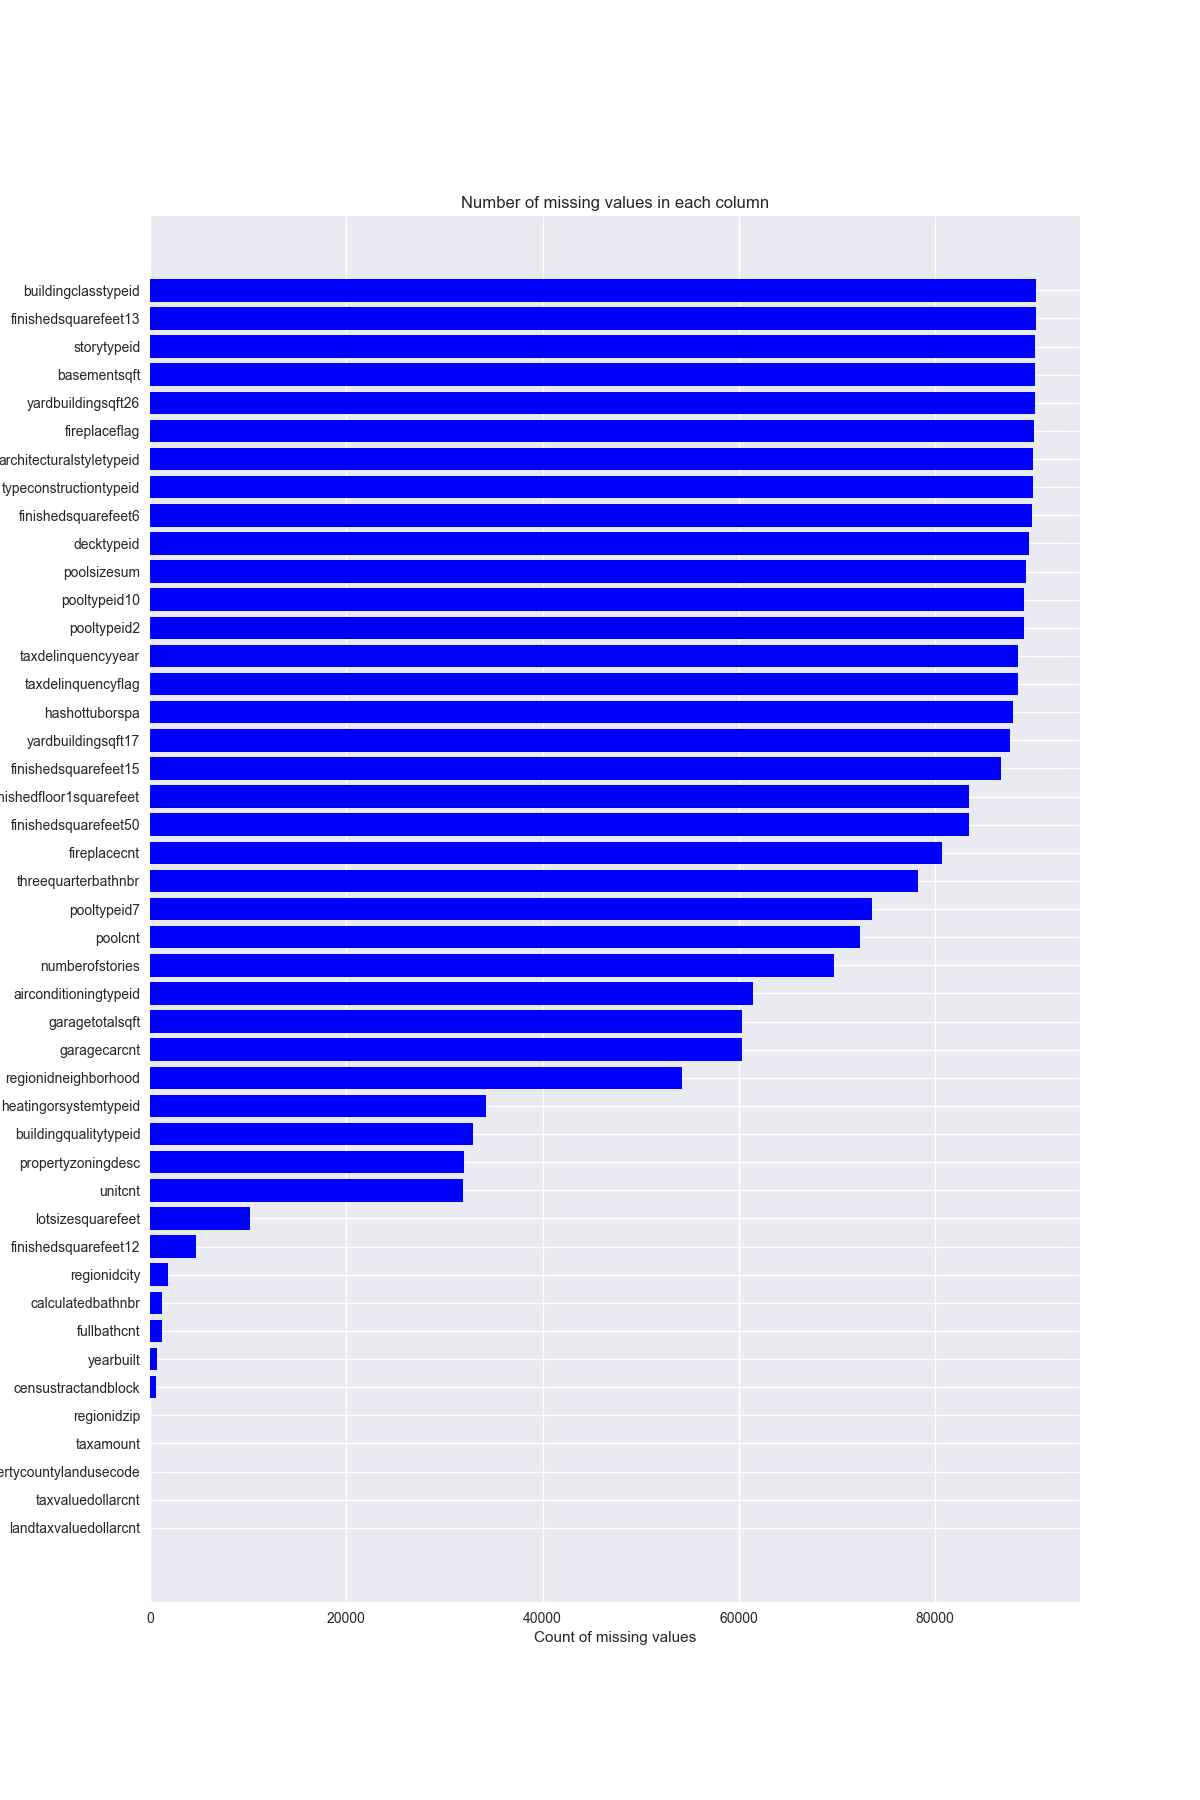
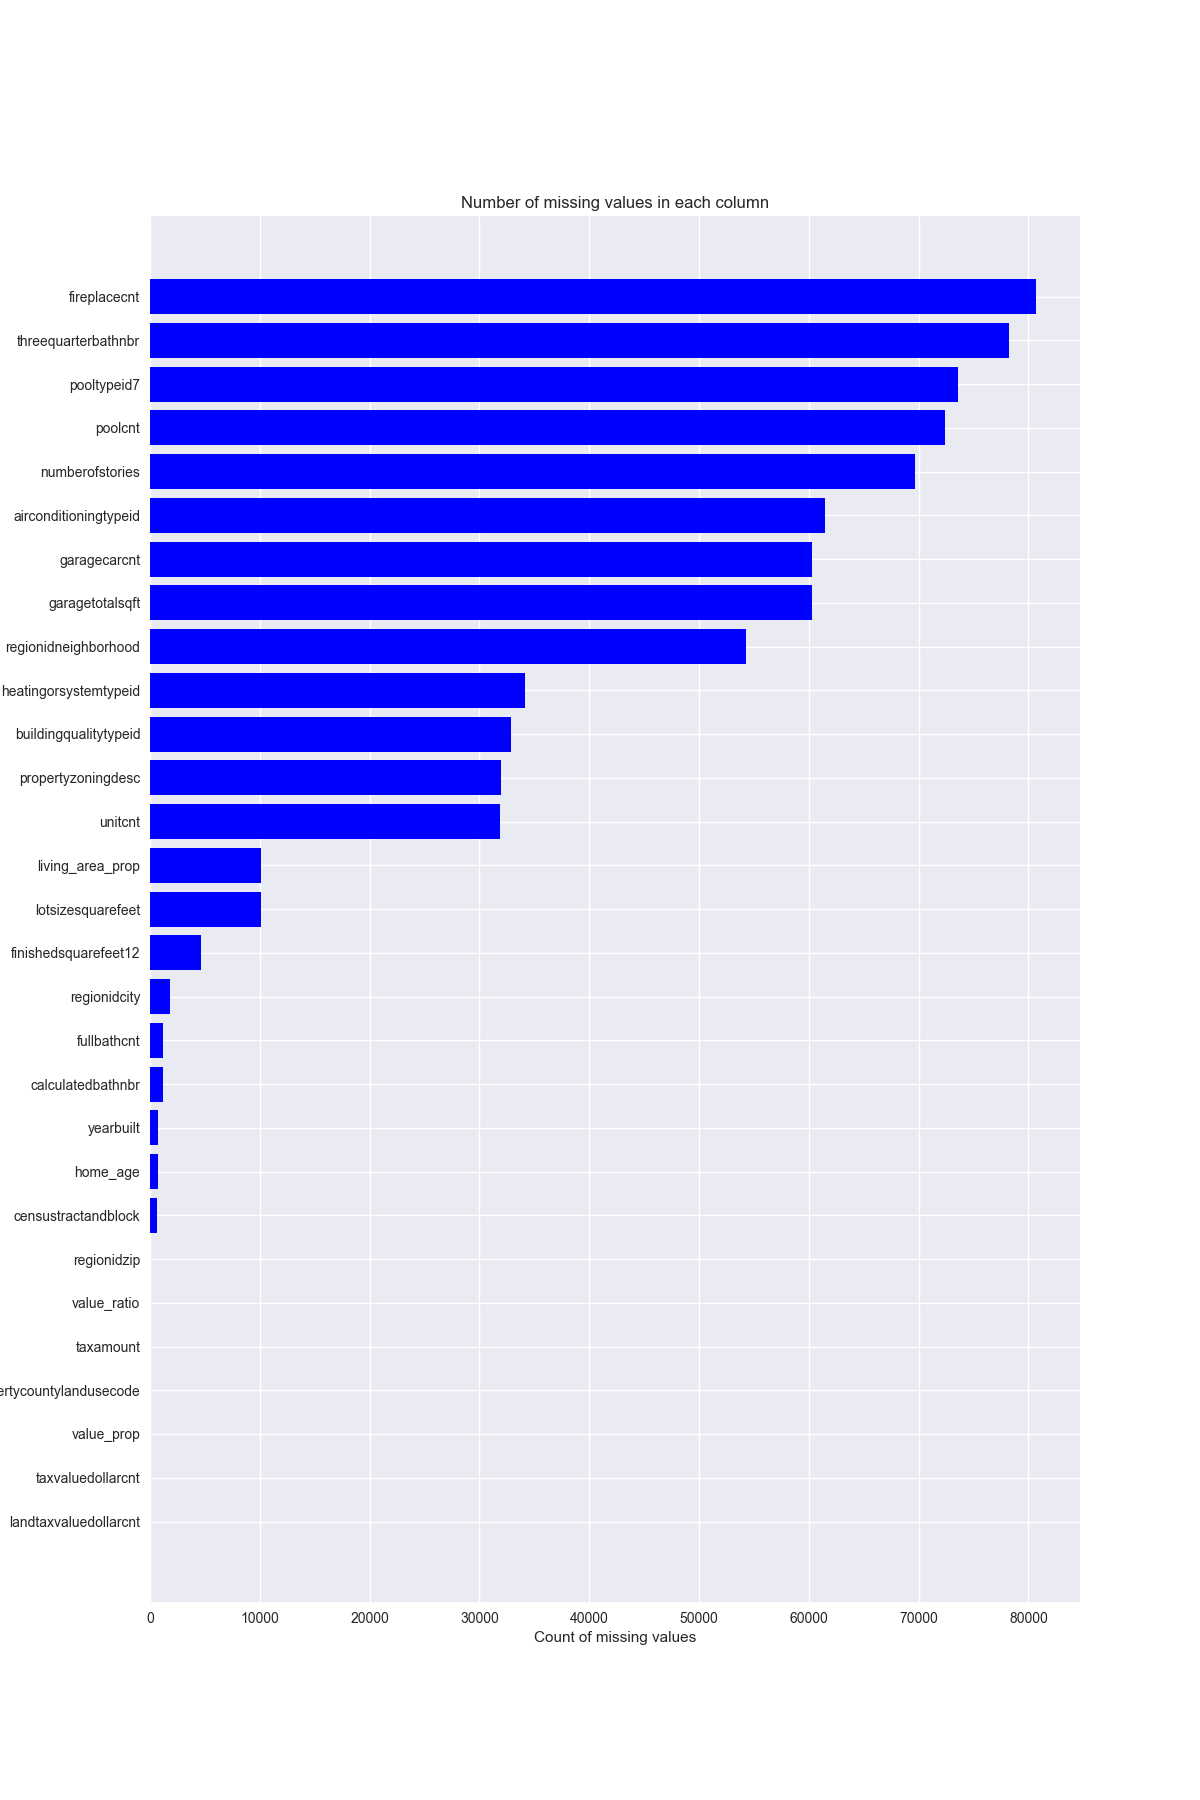
data_imputations added

Changed region(s): [[0.0, 0.1556, 0.8633, 0.8711], [0.5858, 0.8711, 0.6167, 0.9022], [0.2775, 0.8711, 0.3083, 0.9022]]

diff --git a/feature_engineering.py b/feature_engineering.py
@@ -1,13 +1,26 @@
-from data_exploration import Display_missing_percentages,random_forest_importance
+from data_exploration import Display_missing_percentages, random_forest_importance
 from sklearn.preprocessing import LabelEncoder
 import numpy as np
 import matplotlib as plt
-
+from data_imputation import *
 from sklearn.ensemble import ExtraTreesClassifier
 
 DEBUG = 1
-def data_preprocessing(df_train,df_test):
 
+
+def feature_engineering(df_train, df_test):
+
+    df_train, df_test = data_modification(df_train, df_test)
+    df_train, df_test = missing_value_removal(df_train, df_test)
+    df_train, df_test = new_features(df_train, df_test)
+    df_train, df_test = missing_value_removal(df_train, df_test)
+    # df_train, df_test = data_imputation(df_train,df_test)
+    df_train, df_test = label_encoding(df_train, df_test)
+
+    return df_train, df_test
+
+
+def data_modification(df_train, df_test):
     print('Memory usage reduction...')
     df_train[['latitude', 'longitude']] /= 1e6
     df_test[['latitude', 'longitude']] /= 1e6
@@ -15,10 +28,14 @@ def data_preprocessing(df_train,df_test):
     df_train['censustractandblock'] /= 1e12
     df_test['censustractandblock'] /= 1e12
 
+    return df_train,df_test
+
+
+def missing_value_removal(df_train, df_test):
     # counting number of missing values
     cnt = Display_missing_percentages(df_train)
 
-    if DEBUG :
+    if DEBUG:
         print 'Before Dropping Values'
         print df_train.shape
         print df_test.shape
@@ -26,32 +43,26 @@ def data_preprocessing(df_train,df_test):
     drop_list = []
     for c in df_train.columns:
         if cnt[c] > 90:
-            if DEBUG :
+            if DEBUG:
                 print c
                 c123 = 0
             drop_list.append(c)
 
-    df_train_new = df_train.drop(drop_list,axis=1)
-    #drop_list.extend(('201610', '201611','201612', '201710', '201711', '201712'))
-    df_test_new = df_test.drop(drop_list,axis=1)
-
+    df_train_new = df_train.drop(drop_list, axis=1)
+    df_test_new = df_test.drop(drop_list, axis=1)
 
     df_train = df_train_new
     df_test = df_test_new
 
-    if DEBUG :
+    if DEBUG:
         print 'After Dropping Values'
         print df_train.shape
         print df_test.shape
 
-    # df_train,df_test=label_encoding(df_train,df_test)
-    # random_forest_importance(df_train)
-
-    return df_train,df_test
+    return df_train, df_test
 
 
-def label_encoding(df_train,df_test):
-
+def label_encoding(df_train, df_test):
     # Label Encoding For Machine Learning &amp; Filling Missing Values
     #
     # We are now label encoding our datasets. All of the machine learning algorithms
@@ -62,38 +73,30 @@ def label_encoding(df_train,df_test):
     # This is to ensure that label encoder function does not experience any problems while
     # carrying out its operation #
 
-    ignore_labels = ['parcelid','transactiondata','logerror']
     lbl = LabelEncoder()
     for c in df_train.columns:
-
-        if (c != 'parcelid' and c!= 'transactiondate' and c !='logerror'):
-            if df_train[c].dtype == 'object':
-                df_train[c] = df_train[c].fillna(0)
-            else:
-                mean_c = df_train[c].mean()
-                df_train[c]=df_train[c].fillna(mean_c)
-
         if df_train[c].dtype == 'object':
             lbl.fit(list(df_train[c].values))
             df_train[c] = lbl.transform(list(df_train[c].values))
 
     for c in df_test.columns:
-        df_test[c]=df_test[c].fillna(0)
         if df_test[c].dtype == 'object':
             lbl.fit(list(df_test[c].values))
             df_test[c] = lbl.transform(list(df_test[c].values))
 
-    return df_train,df_test
+    return df_train, df_test
 
-def new_features(df_train,df_test):
-     # living area proportions
+
+def new_features(df_train, df_test):
+    # living area proportions
     df_train['living_area_prop'] = df_train['calculatedfinishedsquarefeet'] / df_train['lotsizesquarefeet']
     df_test['living_area_prop'] = df_test['calculatedfinishedsquarefeet'] / df_test['lotsizesquarefeet']
     # tax value ratio
     df_train['value_ratio'] = df_train['taxvaluedollarcnt'] / df_train['taxamount']
     df_test['value_ratio'] = df_test['taxvaluedollarcnt'] / df_test['taxamount']
     # tax value proportions
-    df_train['value_prop'] = df_train['structuretaxvaluedollarcnt'] / df_train['landtaxvaluedollarcnt']  # built structure value / value of land
+    df_train['value_prop'] = df_train['structuretaxvaluedollarcnt'] / df_train[
+        'landtaxvaluedollarcnt']  # built structure value / value of land
     df_test['value_prop'] = df_test['structuretaxvaluedollarcnt'] / df_test['landtaxvaluedollarcnt']
 
     df_train['home_age'] = 2016 - df_train['yearbuilt'];
@@ -101,8 +104,8 @@ def new_features(df_train,df_test):
 
     return df_train, df_test
 
-def feature_selection(df_train,df_test):
 
+def feature_selection(df_train, df_test):
     ### Rearranging the DataSets ###
 
     # We will now drop the features that serve no useful purpose.
@@ -112,18 +115,21 @@ def feature_selection(df_train,df_test):
     # Make sure to include the same features in the test set as were
     # included in the training set #
 
-    #dropping properties which are not important or which are similar
+    # dropping properties which are not important or which are similar
 
 
-    x_train = df_train.drop(['parcelid', 'logerror', 'transactiondate', 'bathroomcnt', 'fips', 'pooltypeid7','calculatedbathnbr',
-                            'regionidcounty','threequarterbathnbr', 'assessmentyear','censustractandblock','yearbuilt','regionidneighborhood', ], axis=1)
+    x_train = df_train.drop(
+        ['parcelid', 'logerror', 'transactiondate', 'bathroomcnt', 'fips', 'pooltypeid7', 'calculatedbathnbr',
+         'regionidcounty', 'threequarterbathnbr', 'assessmentyear', 'censustractandblock', 'yearbuilt',
+         'regionidneighborhood', ], axis=1)
 
-    x_test = df_test.drop(['parcelid', 'bathroomcnt', 'fips', 'pooltypeid7','calculatedbathnbr',
-                            'regionidcounty','threequarterbathnbr', 'assessmentyear','censustractandblock', 'yearbuilt','regionidneighborhood','201610', '201611',
-                           '201612', '201710', '201711', '201712'], axis = 1)
+    x_test = df_test.drop(['parcelid', 'bathroomcnt', 'fips', 'pooltypeid7', 'calculatedbathnbr',
+                           'regionidcounty', 'threequarterbathnbr', 'assessmentyear', 'censustractandblock',
+                           'yearbuilt', 'regionidneighborhood', '201610', '201611',
+                           '201612', '201710', '201711', '201712'], axis=1)
 
     x_train = x_train.values
     y_train = df_train['logerror'].values
 
     y_test = 0
-    return x_train,y_train,x_test,y_test
+    return x_train, y_train, x_test, y_test

diff --git a/data_exploration.py b/data_exploration.py
@@ -1,6 +1,8 @@
 import numpy as np
 import matplotlib.pyplot as plt
 import seaborn as sns
+from sklearn.ensemble import RandomForestRegressor
+
 color = sns.color_palette()
 
 def data_exploration(train_df):
@@ -39,7 +41,8 @@ def data_exploration(train_df):
     plt.show()
 
     train_df.drop(['transaction_month'],axis=1)
-    a  =10
+
+
 
 def visualize_distribution(properties,df_train,featurename):
     mean_c = df_train[featurename].mean()
@@ -67,30 +70,6 @@ def visualize_distribution(properties,df_train,featurename):
     plt.show()
 
 
-# def Display_missing_percentages_old(train):
-#     cnt = {}
-#     cnt_full = {}
-#     for c in train.columns:
-#         k = train[c].isnull().sum(axis=0)
-#
-#         cnt[c] = (float(k) / train.shape[0]) * 100
-#         cnt_full[c] = float(k)
-#         print c,cnt[c],cnt_full[c], "\n"
-#
-#     sorted_cnt = sorted(cnt.iteritems(), key=lambda (k, v): (v, k))
-#
-#     freq = [k[1] for k in sorted_cnt]
-#
-#     plt.figure(figsize=(22, 18))
-#     plt.barh(range(len(cnt)), freq, align="center")
-#     plt.yticks(range(len(cnt)), list(cnt.keys()))
-#     plt.xlabel('Percentage of missing values',fontsize=12)
-#     plt.title('Missing value % for each of feature',fontsize=12)
-#     plt.savefig('./images/Missing_values.png')
-#     plt.show()
-#     return cnt
-
-
 def Display_missing_percentages(train):
     cnt = {}
     for c in train.columns:
@@ -115,7 +94,7 @@ def Display_missing_percentages(train):
 
     return cnt
 
-from sklearn.ensemble import RandomForestRegressor
+
 def random_forest_importance(df_train):
      # Build a forest and compute the feature importances
     forest = RandomForestRegressor(n_estimators=250)

diff --git a/data_imputation.py b/data_imputation.py
@@ -1,0 +1,21 @@
+import numpy as np
+import pandas as pd
+import matplotlib as plt
+
+
+def data_imputation(df_train, df_test):
+    # imputing missing values with corresponding data to be filled
+
+    mode_imputations = ['airconditioningtypeid', 'heatingorsystemtypeid', 'roomcnt','fireplacecnt']
+    for element in mode_imputations:
+        mode_element = df_test[element].mode()
+        df_test[element] = df_test[element].fillna(mode_element)
+
+
+    zero_imputations = ['poolcnt','garagecarcnt']
+    for element in zero_imputations:
+        df_test[element] = df_test[element].fillna(0)
+
+    missing_df = df_train.isnull().sum(axis=0).reset_index()
+    missing_df.columns = ['column_name', 'missing_count']
+    missing_df['missing_ratio'] = missing_df['missing_count'] / df_train.shape[0]

diff --git a/base_code.py b/base_code.py
@@ -25,13 +25,18 @@ DEBUG = 1
 
 def main():
 
+    # Step1 :- Load the data and visualize distributions
     # df_train, df_test = load_full_data()
     df_train, df_test = load_2016_data()
     # df_train, df_test = load_small_data()
+
+    # Step 2 : Data Exploration
     # data_exploration(df_train)
 
-    df_train,df_test = data_preprocessing(df_train,df_test)
-    df_train,df_test = new_features(df_train,df_test)
+    # Step 3 : Feature Understanding and modification
+    df_train,df_test = feature_engineering(df_train,df_test)
+
+
     x_train, y_train, x_test,k = feature_selection(df_train,df_test)
  	
     model_experiments(x_train,y_train,x_test)
